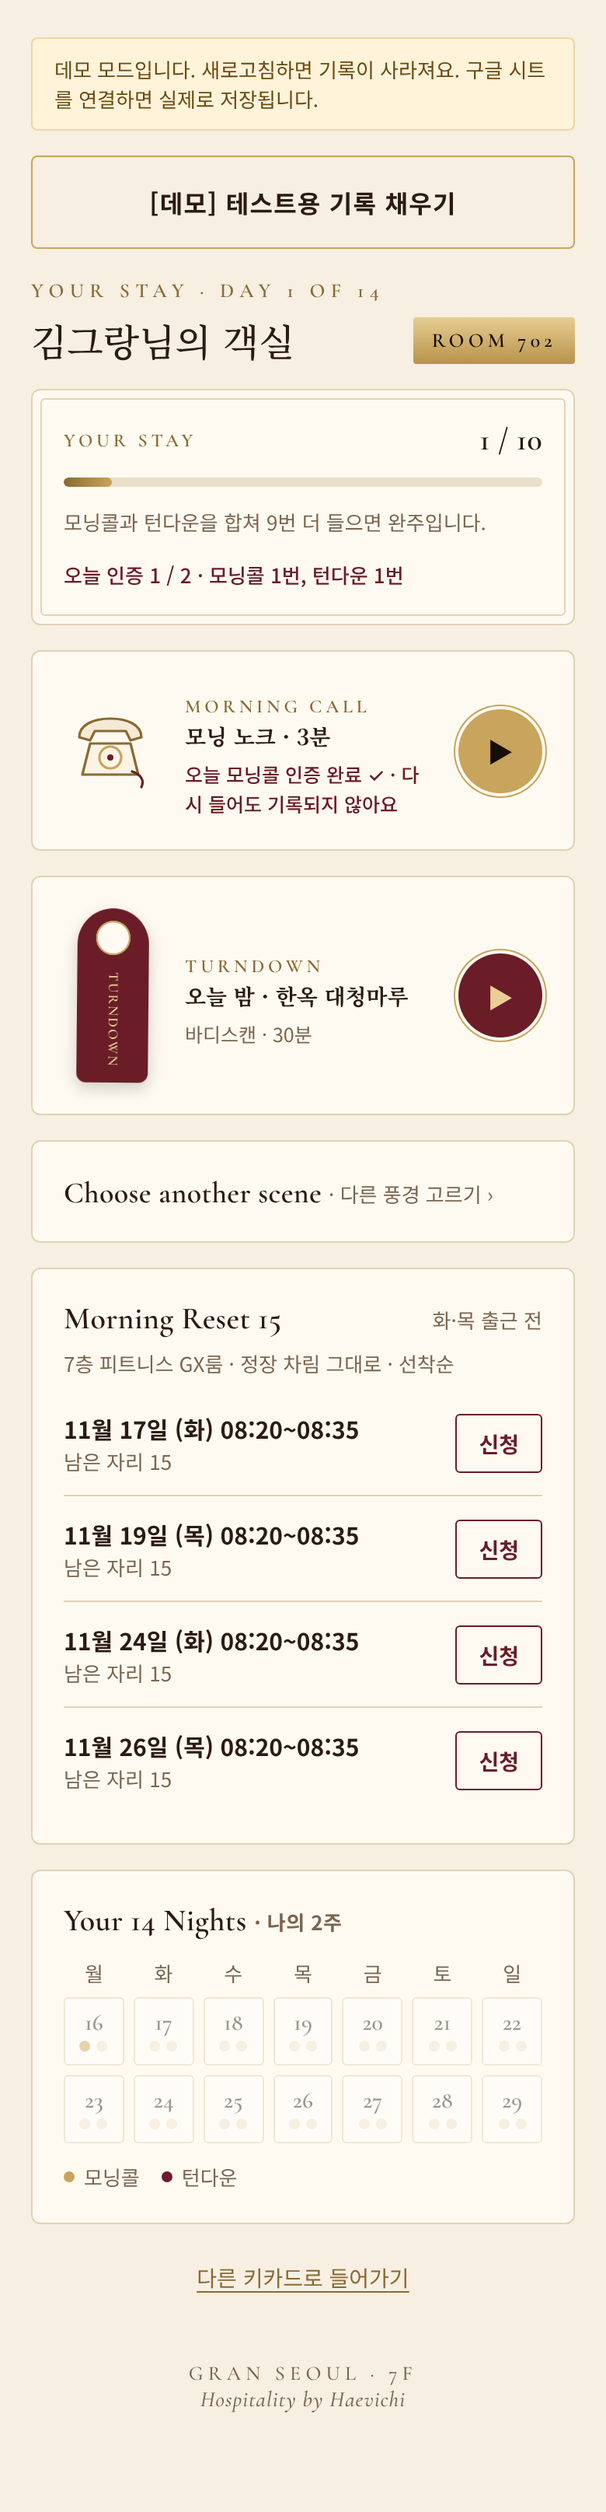
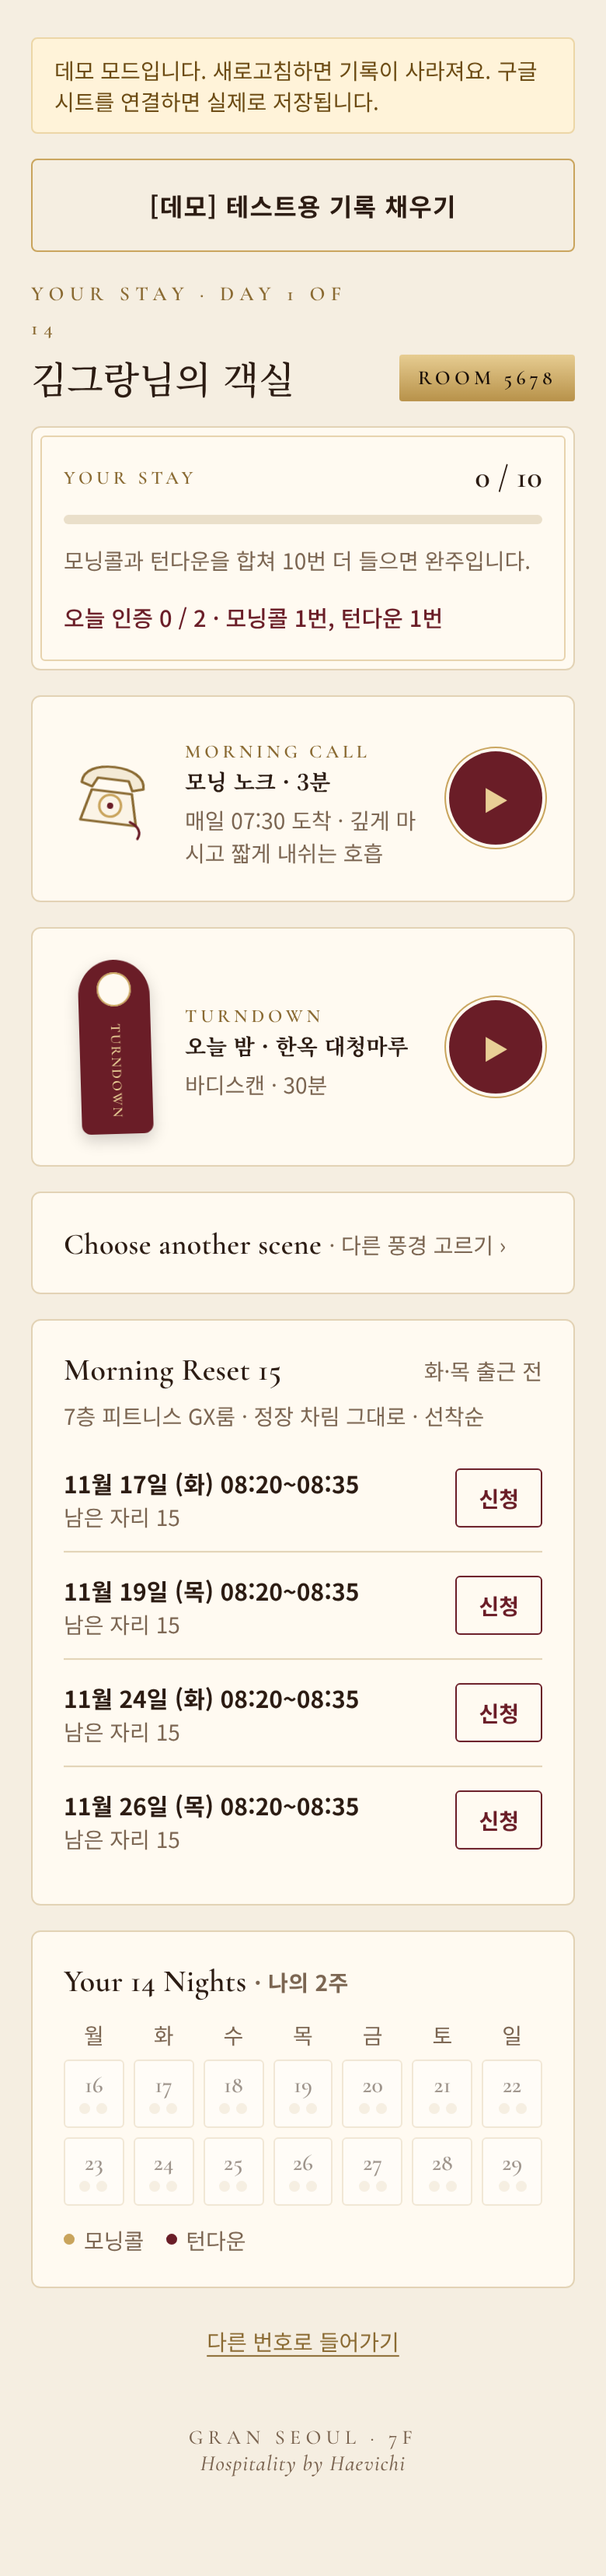
Phone-based entry for easier access
- Personal SMS link opens the room directly; the phone remembers it afterwards
- Re-entry asks only for the phone number (no code to memorize)
- Same phone signing up again goes to the existing room
- Room number shows the last 4 digits of the phone
- Larger text and play buttons for readability

Claude-Session: https://claude.ai/code/session_011z6wvs2Gb5um8vyCmLK585

diff --git a/index.html b/index.html
@@ -39,7 +39,7 @@
 *{box-sizing:border-box}
 [hidden]{display:none!important}
 html,body{margin:0;min-height:100%}
-body{background:var(--paper);color:var(--ink);font-family:var(--sans);-webkit-font-smoothing:antialiased;transition:background .5s}
+body{background:var(--paper);color:var(--ink);font-family:var(--sans);font-size:16.5px;-webkit-font-smoothing:antialiased;transition:background .5s}
 body.dark{background:var(--walnut-900);color:var(--lamp)}
 button,input,select{font:inherit;color:inherit}
 .wrap{max-width:480px;margin:0 auto;padding:24px 20px 56px}
@@ -54,7 +54,7 @@ p{margin:0;line-height:1.7}
 .dark .eyebrow{color:var(--brass)}
 .muted{color:var(--muted)}
 .dark .muted{color:rgba(243,214,168,.62)}
-.small{font-size:13px}
+.small{font-size:14px}
 .stack{display:flex;flex-direction:column;gap:12px}
 .row{display:flex;gap:10px;align-items:center}
 .center{text-align:center}
@@ -79,7 +79,7 @@ p{margin:0;line-height:1.7}
 footer{text-align:center;font-family:var(--en);font-size:13px;color:var(--muted);padding:36px 0 8px;letter-spacing:.24em;text-transform:uppercase}
 footer i{font-style:italic;text-transform:none;letter-spacing:.04em;font-size:14px}
 .dark footer{color:rgba(201,164,92,.7)}
-.banner{background:#fff3d9;border:1px solid #ecd6a6;border-radius:4px;padding:10px 14px;font-size:13px;color:#6b4a12}
+.banner{background:#fff3d9;border:1px solid #ecd6a6;border-radius:4px;padding:10px 14px;font-size:14px;color:#6b4a12}
 
 /* ---------------------------------------------------------
    엘리베이터 입장 (처음 접속할 때 1층 → 7층)
@@ -149,14 +149,14 @@ footer i{font-style:italic;text-transform:none;letter-spacing:.04em;font-size:14
 /* ---------------------------------------------------------
    신청서 (Registration Card)
    --------------------------------------------------------- */
-label.f{display:flex;flex-direction:column;gap:4px;font-size:13px;font-weight:500;color:var(--muted)}
+label.f{display:flex;flex-direction:column;gap:4px;font-size:14.5px;font-weight:500;color:var(--muted)}
 label.f b{font-family:var(--en);font-size:12px;letter-spacing:.24em;text-transform:uppercase;color:var(--brass-dark);font-weight:600}
 input[type=text],input[type=tel],select{border:0;border-bottom:1px solid var(--brass);background:transparent;border-radius:0;padding:10px 2px;font-size:17px;width:100%;color:var(--ink)}
 input:focus,select:focus{outline:none;border-bottom:2px solid var(--burgundy)}
 .choices{display:flex;gap:8px;flex-wrap:wrap}
 .choice{flex:1;min-width:88px;border:1px solid var(--brass);background:transparent;border-radius:3px;padding:12px 8px;text-align:center;cursor:pointer;font-size:15px}
 .choice[aria-pressed=true]{background:var(--burgundy);border-color:var(--burgundy);color:var(--brass-light);font-weight:700}
-.agree{display:flex;gap:10px;font-size:13px;align-items:flex-start;line-height:1.55;color:var(--muted)}
+.agree{display:flex;gap:10px;font-size:14px;align-items:flex-start;line-height:1.55;color:var(--muted)}
 .agree input{width:18px;height:18px;margin-top:2px;flex:none;accent-color:var(--burgundy)}
 .err{color:#a3262e;font-size:14px;min-height:20px}
 
@@ -171,7 +171,8 @@ input:focus,select:focus{outline:none;border-bottom:2px solid var(--burgundy)}
 .keycard .kc-top{display:flex;justify-content:space-between;font-family:var(--en);font-size:10px;letter-spacing:.24em;color:var(--brass)}
 .keycard .kc-top b{font-weight:600;color:var(--brass-light);line-height:1.1}
 .keycard .room{font-family:var(--en);font-size:14px;letter-spacing:.3em;margin-top:12px;color:var(--brass)}
-.keycard .room b{display:block;font-size:44px;letter-spacing:.06em;color:var(--brass-light);font-weight:600;line-height:1.05}
+.keycard .room b{display:block;font-size:50px;letter-spacing:.06em;color:var(--brass-light);font-weight:600;line-height:1.05}
+.keycard .kc-note{font-family:var(--en);font-size:11px;letter-spacing:.18em;white-space:nowrap;color:var(--brass);margin-top:10px;text-transform:uppercase}
 .keycard .code{font-family:var(--en);font-size:24px;letter-spacing:.32em;font-weight:600;margin-top:8px;color:#fff3dc}
 .sleeve{position:absolute;left:0;right:0;bottom:0;height:50%;border-radius:4px;z-index:2;text-align:center;color:var(--brass-light);
   background:radial-gradient(circle at 50% 40%,rgba(255,255,255,.06),transparent 60%),linear-gradient(160deg,#7a2331,var(--burgundy) 50%,#4d121b);
@@ -188,12 +189,12 @@ input:focus,select:focus{outline:none;border-bottom:2px solid var(--burgundy)}
 .room-plate{font-family:var(--en);font-weight:600;letter-spacing:.2em;font-size:13px;padding:7px 12px;border-radius:2px;color:var(--walnut-900);background:linear-gradient(180deg,#e7cd92,#b8924a);white-space:nowrap}
 .progress{height:6px;border-radius:99px;background:#eadfca;overflow:hidden}
 .progress i{display:block;height:100%;background:linear-gradient(90deg,var(--brass-dark),var(--brass));border-radius:99px;transition:width .5s}
-.today-line{font-size:13px;color:var(--burgundy);font-weight:500}
+.today-line{font-size:14.5px;color:var(--burgundy);font-weight:500}
 .svc-card{display:grid;grid-template-columns:64px 1fr auto;gap:14px;align-items:center}
 .svc-card h3{font-family:var(--en);font-size:24px}
 .svc-card .ko{font-family:var(--serif);font-size:14px;margin-top:2px}
-.svc-card .status{font-size:12.5px;color:var(--muted);margin-top:6px;line-height:1.5}
-.play{width:54px;height:54px;border-radius:50%;border:0;cursor:pointer;font-size:17px;background:var(--burgundy);color:var(--brass-light);box-shadow:0 0 0 2px var(--card),0 0 0 3px var(--brass)}
+.svc-card .status{font-size:14px;color:var(--muted);margin-top:6px;line-height:1.5}
+.play{width:60px;height:60px;border-radius:50%;border:0;cursor:pointer;font-size:17px;background:var(--burgundy);color:var(--brass-light);box-shadow:0 0 0 2px var(--card),0 0 0 3px var(--brass)}
 .done .play{background:var(--brass);color:var(--walnut-900)}
 .done .status{color:var(--burgundy);font-weight:500}
 /* 클래식 전화기 */
@@ -207,7 +208,7 @@ input:focus,select:focus{outline:none;border-bottom:2px solid var(--burgundy)}
 .done .hanger{background:var(--walnut-700)}
 @keyframes sway{0%,100%{transform:rotate(-2deg)}50%{transform:rotate(2deg)}}
 .scenes{display:grid;grid-template-columns:1fr 1fr;gap:8px}
-.scenes button{border:1px solid var(--line);background:#fff;border-radius:4px;padding:12px;text-align:left;cursor:pointer;font-size:13px}
+.scenes button{border:1px solid var(--line);background:#fff;border-radius:4px;padding:14px 12px;text-align:left;cursor:pointer;font-size:14px}
 .scenes button b{display:block;font-family:var(--serif);font-size:14px;font-weight:500}
 summary{cursor:pointer;list-style:none}
 summary::-webkit-details-marker{display:none}
@@ -240,8 +241,8 @@ body.velvet{background:repeating-linear-gradient(90deg,#4a1219 0 14px,#5c1820 26
 @keyframes merciIn{from{opacity:0;transform:translateY(30px) rotate(-6deg)}to{opacity:1;transform:rotate(-1.5deg)}}
 .merci .script{font-family:var(--script);font-size:62px;line-height:1;color:var(--burgundy)}
 .merci .gname{font-family:var(--serif);font-size:20px;font-weight:500;margin-top:14px}
-.merci .code{font-family:var(--en);font-size:30px;letter-spacing:.3em;font-weight:600;color:var(--brass-dark);margin:12px 0 4px}
-.merci .who{font-size:13px;color:var(--muted)}
+.merci .code{font-family:var(--en);font-size:30px;letter-spacing:.16em;font-weight:600;color:var(--brass-dark);margin:12px 0 4px}
+.merci .who{font-size:14px;color:var(--muted)}
 .velvet .note{color:var(--brass-light);opacity:.85}
 
 /* ---------------------------------------------------------
@@ -339,7 +340,7 @@ body.velvet{background:repeating-linear-gradient(90deg,#4a1219 0 14px,#5c1820 26
     <div class="card framed stack" style="gap:20px;padding:26px 22px">
       <label class="f"><b>Guest Name</b>이름<input type="text" id="fName" autocomplete="name" placeholder="홍길동"></label>
       <label class="f"><b>Company</b>소속 계열사<select id="fCompany"></select></label>
-      <label class="f"><b>Contact</b>연락처<input type="tel" id="fPhone" autocomplete="tel" placeholder="010-0000-0000"></label>
+      <label class="f"><b>Contact</b>연락처 · 모닝콜 문자를 받을 번호<input type="tel" id="fPhone" inputmode="numeric" autocomplete="tel" placeholder="010-0000-0000"></label>
       <div class="f stack" style="gap:8px"><label class="f" style="gap:0"><b>Wake-up Call</b>모닝콜 받을 시간</label><div class="choices" id="fTime"></div></div>
       <div class="f stack" style="gap:8px"><label class="f" style="gap:0"><b>Membership</b>피트니스 회원이신가요?</label>
         <div class="choices" id="fMember"><button class="choice" data-v="회원">회원</button><button class="choice" data-v="비회원">아직 아니에요</button></div></div>
@@ -361,7 +362,7 @@ body.velvet{background:repeating-linear-gradient(90deg,#4a1219 0 14px,#5c1820 26
       <div class="keycard">
         <div class="kc-top"><span>YOUR</span><b>GRAN SEOUL<br>7F</b><span>KEY</span></div>
         <p class="room">ROOM<b id="wRoom"></b></p>
-        <p class="code" id="wCode"></p>
+        <p class="kc-note">Morning Call · Turndown</p>
       </div>
       <div class="sleeve">
         <svg viewBox="0 0 54 120"><circle cx="27" cy="20" r="12"/><circle cx="27" cy="20" r="6"/><path d="M27 32v66M27 74h10M27 84h8M27 96h11"/><path d="M27 8c-3-6 3-6 0 0"/></svg>
@@ -370,7 +371,7 @@ body.velvet{background:repeating-linear-gradient(90deg,#4a1219 0 14px,#5c1820 26
       </div>
     </div>
     <p class="muted" id="wText"></p>
-    <p class="small muted">키카드의 6자리 코드로 언제든 다시 들어올 수 있어요.<br>메시지 링크로 들어오면 자동으로 열립니다.</p>
+    <p class="muted">외우실 건 없어요.<br>매일 오는 <b style="color:var(--brass-light)">문자 속 링크</b>만 누르면 바로 객실이 열려요.</p>
     <button class="btn" data-go="me"><small>YOUR STAY</small>내 객실로 가기</button>
   </div>
 </section>
@@ -379,10 +380,11 @@ body.velvet{background:repeating-linear-gradient(90deg,#4a1219 0 14px,#5c1820 26
 <section class="screen" id="s-login">
   <div class="stack" style="gap:18px">
     <button class="link" data-go="home" style="align-self:flex-start">← Lobby</button>
-    <div class="head center"><p class="eyebrow">Welcome Back</p><h2 class="en" style="margin-top:6px">Your Key, Please</h2><p class="ko-title muted">키카드에 적힌 6자리 코드를 입력하세요</p></div>
+    <div class="head center"><p class="eyebrow">Welcome Back</p><h2 class="en" style="margin-top:6px">Your Room Awaits</h2><p class="ko-title muted">체크인할 때 쓴 전화번호를 입력해 주세요</p></div>
     <div class="card framed" style="padding:28px 22px">
-      <input type="text" id="lCode" maxlength="6" placeholder="K7M2QA" style="text-transform:uppercase;letter-spacing:.3em;text-align:center;font-family:var(--en);font-size:28px;font-weight:600">
+      <input type="tel" id="lPhone" inputmode="numeric" autocomplete="tel" placeholder="010-0000-0000" style="text-align:center;font-size:26px;letter-spacing:.06em;font-weight:500">
     </div>
+    <p class="small muted center">문자로 받은 링크를 누르면 입력 없이 바로 들어가요.</p>
     <p class="err" id="lErr"></p>
     <button class="btn" id="lSubmit"><small>ENTER</small>객실로 들어가기</button>
   </div>
@@ -436,7 +438,7 @@ body.velvet{background:repeating-linear-gradient(90deg,#4a1219 0 14px,#5c1820 26
       <div class="cal" id="cal"></div>
       <div class="row small muted" style="gap:14px"><span class="row" style="gap:6px"><b style="width:7px;height:7px;border-radius:50%;background:var(--brass);display:inline-block"></b>모닝콜</span><span class="row" style="gap:6px"><b style="width:7px;height:7px;border-radius:50%;background:var(--burgundy);display:inline-block"></b>턴다운</span></div>
     </div>
-    <button class="link" id="logout" style="align-self:center">다른 키카드로 들어가기</button>
+    <button class="link" id="logout" style="align-self:center">다른 번호로 들어가기</button>
   </div>
 </section>
 
@@ -538,9 +540,17 @@ const Store = (() => {
   }
   const newCode = () => { const c = 'ABCDEFGHJKLMNPQRSTUVWXYZ23456789'; let s = ''; for (let i = 0; i < 6; i++) s += c[Math.floor(Math.random() * c.length)]; return s; };
   return {
+    // 같은 전화번호로 다시 신청하면 새로 만들지 않고 기존 객실을 돌려줍니다 → { code, existing }
     async register(u) {
-      if (online()) return (await call('register', { user: u })).code;
-      const code = newCode(); mem.users[code] = { ...u, code, createdAt: new Date().toISOString() }; return code;
+      if (online()) return call('register', { user: u });
+      const old = Object.values(mem.users).find(x => x.phone === u.phone);
+      if (old) return { code: old.code, existing: true };
+      const code = newCode(); mem.users[code] = { ...u, code, createdAt: new Date().toISOString() }; return { code, existing: false };
+    },
+    // 전화번호로 내 객실 찾기 → 코드 (없으면 null)
+    async findByPhone(phone) {
+      if (online()) return (await call('findByPhone', { phone })).code || null;
+      const u = Object.values(mem.users).find(x => x.phone === phone); return u ? u.code : null;
     },
     async getUser(code) {
       if (online()) return (await call('get', { code })).data;
@@ -881,8 +891,17 @@ document.querySelectorAll('[data-brand]').forEach(el => el.textContent = CONFIG.
 $('giftPreview').textContent = CONFIG.gifts.map(g => g.name).join(' · ');
 $('periodText').textContent = `운영 기간 ${fmtDate(dayList[0])} ~ ${fmtDate(dayList[CONFIG.days - 1])} · ${CONFIG.goal}번 들으면 완주`;
 
-/* 객실 번호: 체크인 코드마다 701~799호 중 하나 (같은 코드는 항상 같은 방) */
-function roomOf(code) { let h = 0; for (const ch of code || '') h = (h * 31 + ch.charCodeAt(0)) % 9973; return 701 + (h % 99); }
+/* 객실 번호 = 전화번호 뒷자리 4개 (장식용. 들어올 때는 전화번호 전체로 구분) */
+const digits = v => String(v || '').replace(/\D/g, '');
+const roomOf = phone => digits(phone).slice(-4);
+
+/* 이 폰 기억하기: 한 번 들어온 폰은 다음부터 자동으로 내 객실이 열립니다 */
+const Device = {
+  get() { try { return localStorage.getItem('gs7-key'); } catch (e) { return null; } },
+  set(code) { try { localStorage.setItem('gs7-key', code); } catch (e) {} },
+  clear() { try { localStorage.removeItem('gs7-key'); } catch (e) {} }
+};
+function enter(code, data) { state.code = code; state.data = data; Device.set(code); history.replaceState(null, '', '?u=' + code); }
 
 /* 프런트 데스크 그림 (아치 · 열쇠 보관함 · 램프 · 나무 데스크). 첫 화면과 체크인 연출에 같이 씁니다 */
 function deskSVG(id) {   // id: 그림마다 다른 이름 (같은 이름을 쓰면 숨겨진 그림 때문에 색이 사라짐)
@@ -919,7 +938,7 @@ function deskSVG(id) {   // id: 그림마다 다른 이름 (같은 이름을 쓰
   <path d="M330 380 V200 A70 70 0 0 1 470 200 V380" fill="#2a170d" stroke="#6e4528" stroke-width="5"/>
   <path d="M118 380 V190 A82 82 0 0 1 282 190 V380" fill="#2a170d" stroke="#6e4528" stroke-width="6"/>
   ${cubby(-60, 262, 8, 3)}${cubby(130, 262, 10, 3, true)}${cubby(342, 262, 8, 3)}
-  <text x="200" y="257" text-anchor="middle" font-family="Cormorant Garamond,serif" font-size="9" letter-spacing="3" fill="#c9a45c">ROOMS 701 — 799</text>
+  <text x="200" y="257" text-anchor="middle" font-family="Cormorant Garamond,serif" font-size="9" letter-spacing="3" fill="#c9a45c">GUEST ROOMS · 7F</text>
   <circle cx="200" cy="168" r="5" fill="url(#${id}-brass)"/><path d="M194 172 L206 172 L210 196 L190 196 Z" fill="url(#${id}-brass)"/><circle cx="200" cy="205" r="40" fill="url(#${id}-glow)" opacity=".6"/>
   ${lamp(62)}${lamp(338)}
   <rect y="384" width="400" height="10" fill="#9a5f36"/><rect y="394" width="400" height="14" fill="#6a3d22"/>
@@ -976,32 +995,33 @@ document.querySelectorAll('.choices').forEach(group => group.addEventListener('c
 }));
 const picked = id => $(id).querySelector('[aria-pressed=true]')?.dataset.v;
 $('fSubmit').onclick = async () => {
-  const u = { name: $('fName').value.trim(), company: $('fCompany').value, phone: $('fPhone').value.trim(), morningTime: picked('fTime'), member: picked('fMember') };
-  const err = !u.name ? '이름을 입력해주세요' : !u.company ? '계열사를 선택해주세요' : !/^[0-9\-\s]{9,}$/.test(u.phone) ? '연락처를 확인해주세요' : !u.morningTime ? '모닝콜 시간을 골라주세요' : !u.member ? '회원 여부를 골라주세요' : !($('fAgree1').checked && $('fAgree2').checked) ? '필수 동의 항목에 체크해주세요' : '';
+  const u = { name: $('fName').value.trim(), company: $('fCompany').value, phone: digits($('fPhone').value), morningTime: picked('fTime'), member: picked('fMember') };
+  const err = !u.name ? '이름을 입력해주세요' : !u.company ? '계열사를 선택해주세요' : !/^01\d{8,9}$/.test(u.phone) ? '연락처를 확인해주세요' : !u.morningTime ? '모닝콜 시간을 골라주세요' : !u.member ? '회원 여부를 골라주세요' : !($('fAgree1').checked && $('fAgree2').checked) ? '필수 동의 항목에 체크해주세요' : '';
   $('fErr').textContent = err; if (err) return;
   $('fSubmit').disabled = true;
   try {
-    const code = await Store.register(u);
-    state.code = code; await refresh();
+    const { code, existing } = await Store.register(u);
+    enter(code, await Store.getUser(code));
+    if (existing) { alert('이미 체크인하신 번호예요. 기존 객실로 안내해 드릴게요.'); show('me'); return; }
+    const room = roomOf(u.phone);
     $('wTitle').textContent = `${u.name}님, 환영합니다`;
-    $('wText').textContent = `${fmtDate(dayList[0])}부터 매일 ${u.morningTime}에 모닝콜이 도착합니다.`;
-    $('wCode').textContent = code;
-    $('wRoom').textContent = roomOf(code);
-    history.replaceState(null, '', '?u=' + code);
-    await playCheckin(roomOf(code));
+    $('wText').textContent = `${fmtDate(dayList[0])}부터 매일 ${u.morningTime}에 문자로 모닝콜이 도착합니다.`;
+    $('wRoom').textContent = room;
+    await playCheckin(room);
     show('welcome');
   } catch (e) { $('fErr').textContent = '신청 중 문제가 생겼어요. 잠시 후 다시 시도해주세요.'; }
   $('fSubmit').disabled = false;
 };
 
-/* --- 코드로 들어오기 --- */
+/* --- 전화번호로 들어오기 --- */
 $('lSubmit').onclick = async () => {
-  const code = $('lCode').value.trim().toUpperCase();
-  const d = code.length === 6 ? await Store.getUser(code).catch(() => null) : null;
-  if (!d) { $('lErr').textContent = '코드를 찾을 수 없어요. 다시 확인해주세요.'; return; }
-  state.code = code; state.data = d; history.replaceState(null, '', '?u=' + code); show('me');
+  const phone = digits($('lPhone').value);
+  const code = /^01\d{8,9}$/.test(phone) ? await Store.findByPhone(phone).catch(() => null) : null;
+  const d = code ? await Store.getUser(code).catch(() => null) : null;
+  if (!d) { $('lErr').textContent = '체크인 기록이 없는 번호예요. 번호를 확인하시거나 새로 체크인해 주세요.'; return; }
+  enter(code, d); show('me');
 };
-$('logout').onclick = () => { state.code = null; state.data = null; history.replaceState(null, '', location.pathname); show('login'); };
+$('logout').onclick = () => { state.code = null; state.data = null; Device.clear(); history.replaceState(null, '', location.pathname); show('login'); };
 
 async function refresh() { state.data = await Store.getUser(state.code); }
 
@@ -1016,7 +1036,7 @@ async function renderMe() {
   $('demoFill').hidden = !!CONFIG.serverUrl;
   $('meDay').textContent = `Your Stay · Day ${td.idx + 1} of ${CONFIG.days}`;
   $('meHello').textContent = `${user.name}님의 객실`;
-  $('meRoom').textContent = `ROOM ${roomOf(state.code)}`;
+  $('meRoom').textContent = `ROOM ${roomOf(user.phone)}`;
   const n = doneCount(), pct = Math.min(100, n / CONFIG.goal * 100);
   $('meBar').style.width = pct + '%';
   $('meCount').textContent = `${Math.min(n, CONFIG.goal)} / ${CONFIG.goal}`;
@@ -1081,8 +1101,8 @@ $('giftConfirm').onclick = async () => {
 function showTicket() {
   const g = CONFIG.gifts.find(x => x.id === state.data.gift.gift);
   $('tGift').textContent = g ? g.name : state.data.gift.gift;
-  $('tCode').textContent = state.code;
-  $('tName').textContent = `${state.data.user.name} · ${state.data.user.company} · ROOM ${roomOf(state.code)}`;
+  $('tCode').textContent = `ROOM ${roomOf(state.data.user.phone)}`;
+  $('tName').textContent = `${state.data.user.name} · ${state.data.user.company}`;
   show('ticket');
 }
 
@@ -1151,14 +1171,16 @@ audio.ontimeupdate = () => {
 
 /* =========================================================
    7. 시작: 주소에 따라 첫 화면 결정
-   ?u=코드  → 내 2주 (메시지 링크용)
-   ?u=코드&play=morning → 바로 모닝 노크 재생
+   ?u=코드  → 내 객실 (문자 링크용. 이 폰도 기억합니다)
+   ?u=코드&play=morning → 바로 모닝 노크 재생 (문자 링크용)
+   주소만 열었을 때 → 이 폰이 기억하는 객실, 없으면 로비
    ========================================================= */
 (async () => {
-  const q = new URLSearchParams(location.search), code = (q.get('u') || '').toUpperCase();
+  const q = new URLSearchParams(location.search), code = (q.get('u') || Device.get() || '').toUpperCase();
   if (code) {
     const d = await Store.getUser(code).catch(() => null);
-    if (d) { state.code = code; state.data = d; show('me'); if (q.get('play') && SCENES[q.get('play')]) openPlayer(q.get('play')); return; }
+    if (d) { enter(code, d); show('me'); if (q.get('play') && SCENES[q.get('play')]) openPlayer(q.get('play')); return; }
+    if (!q.get('u')) Device.clear();   // 기억하던 객실이 없어졌으면 지움
   }
   show('home');
   playLift();
